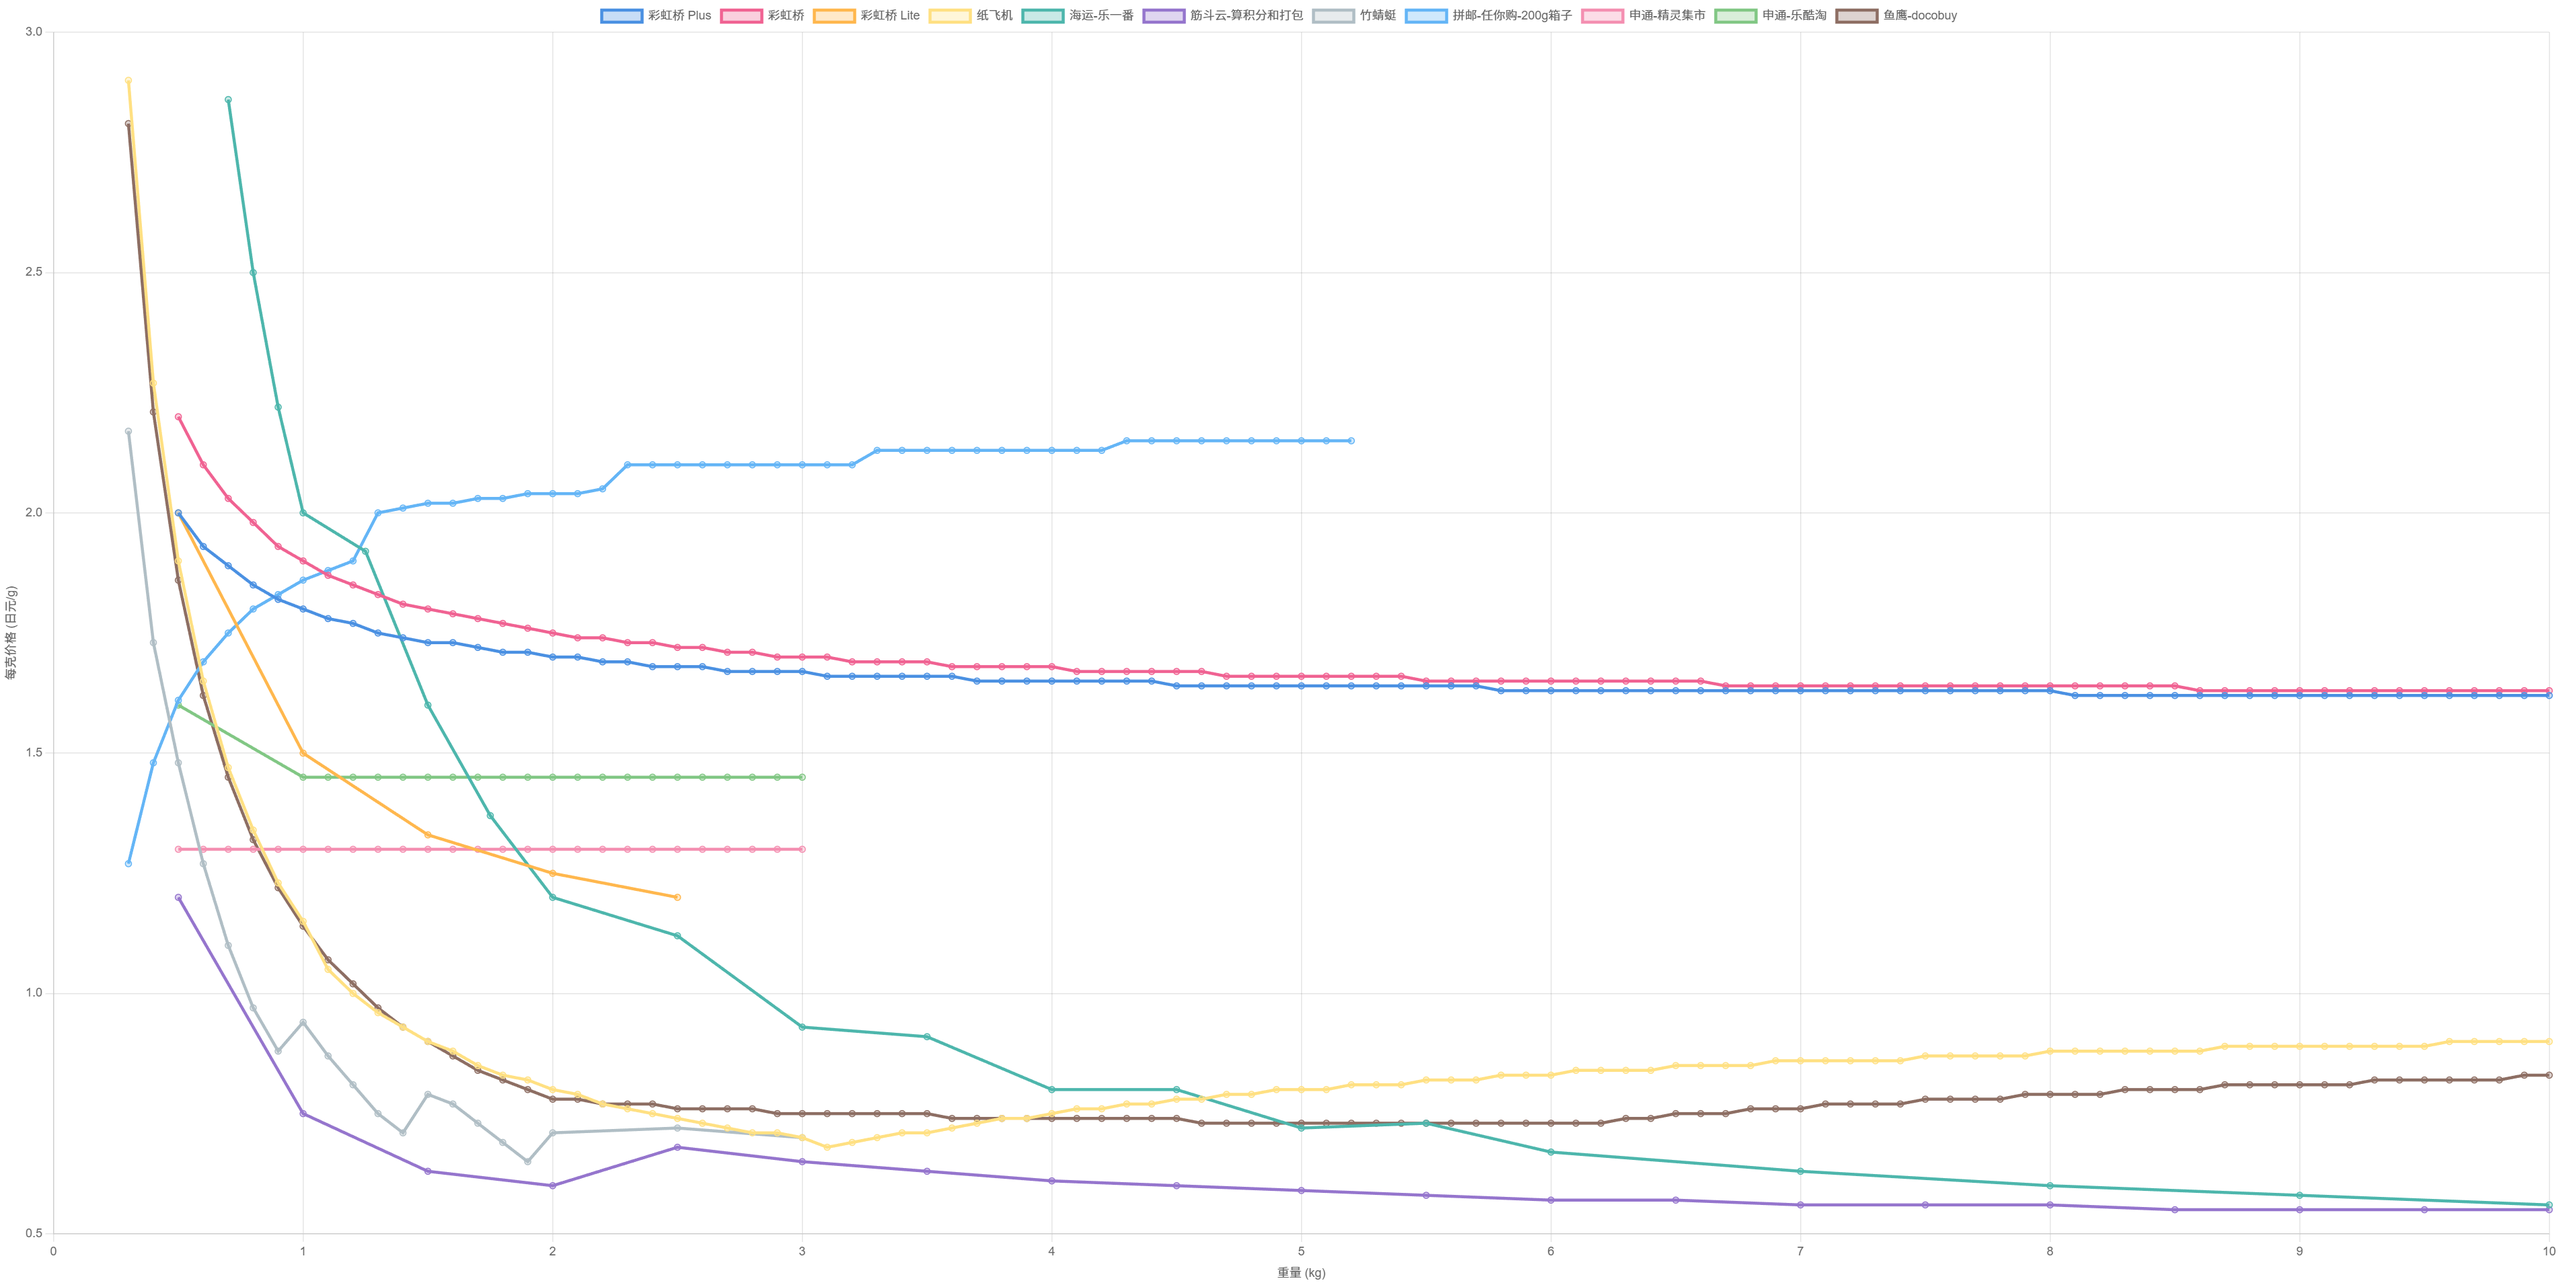
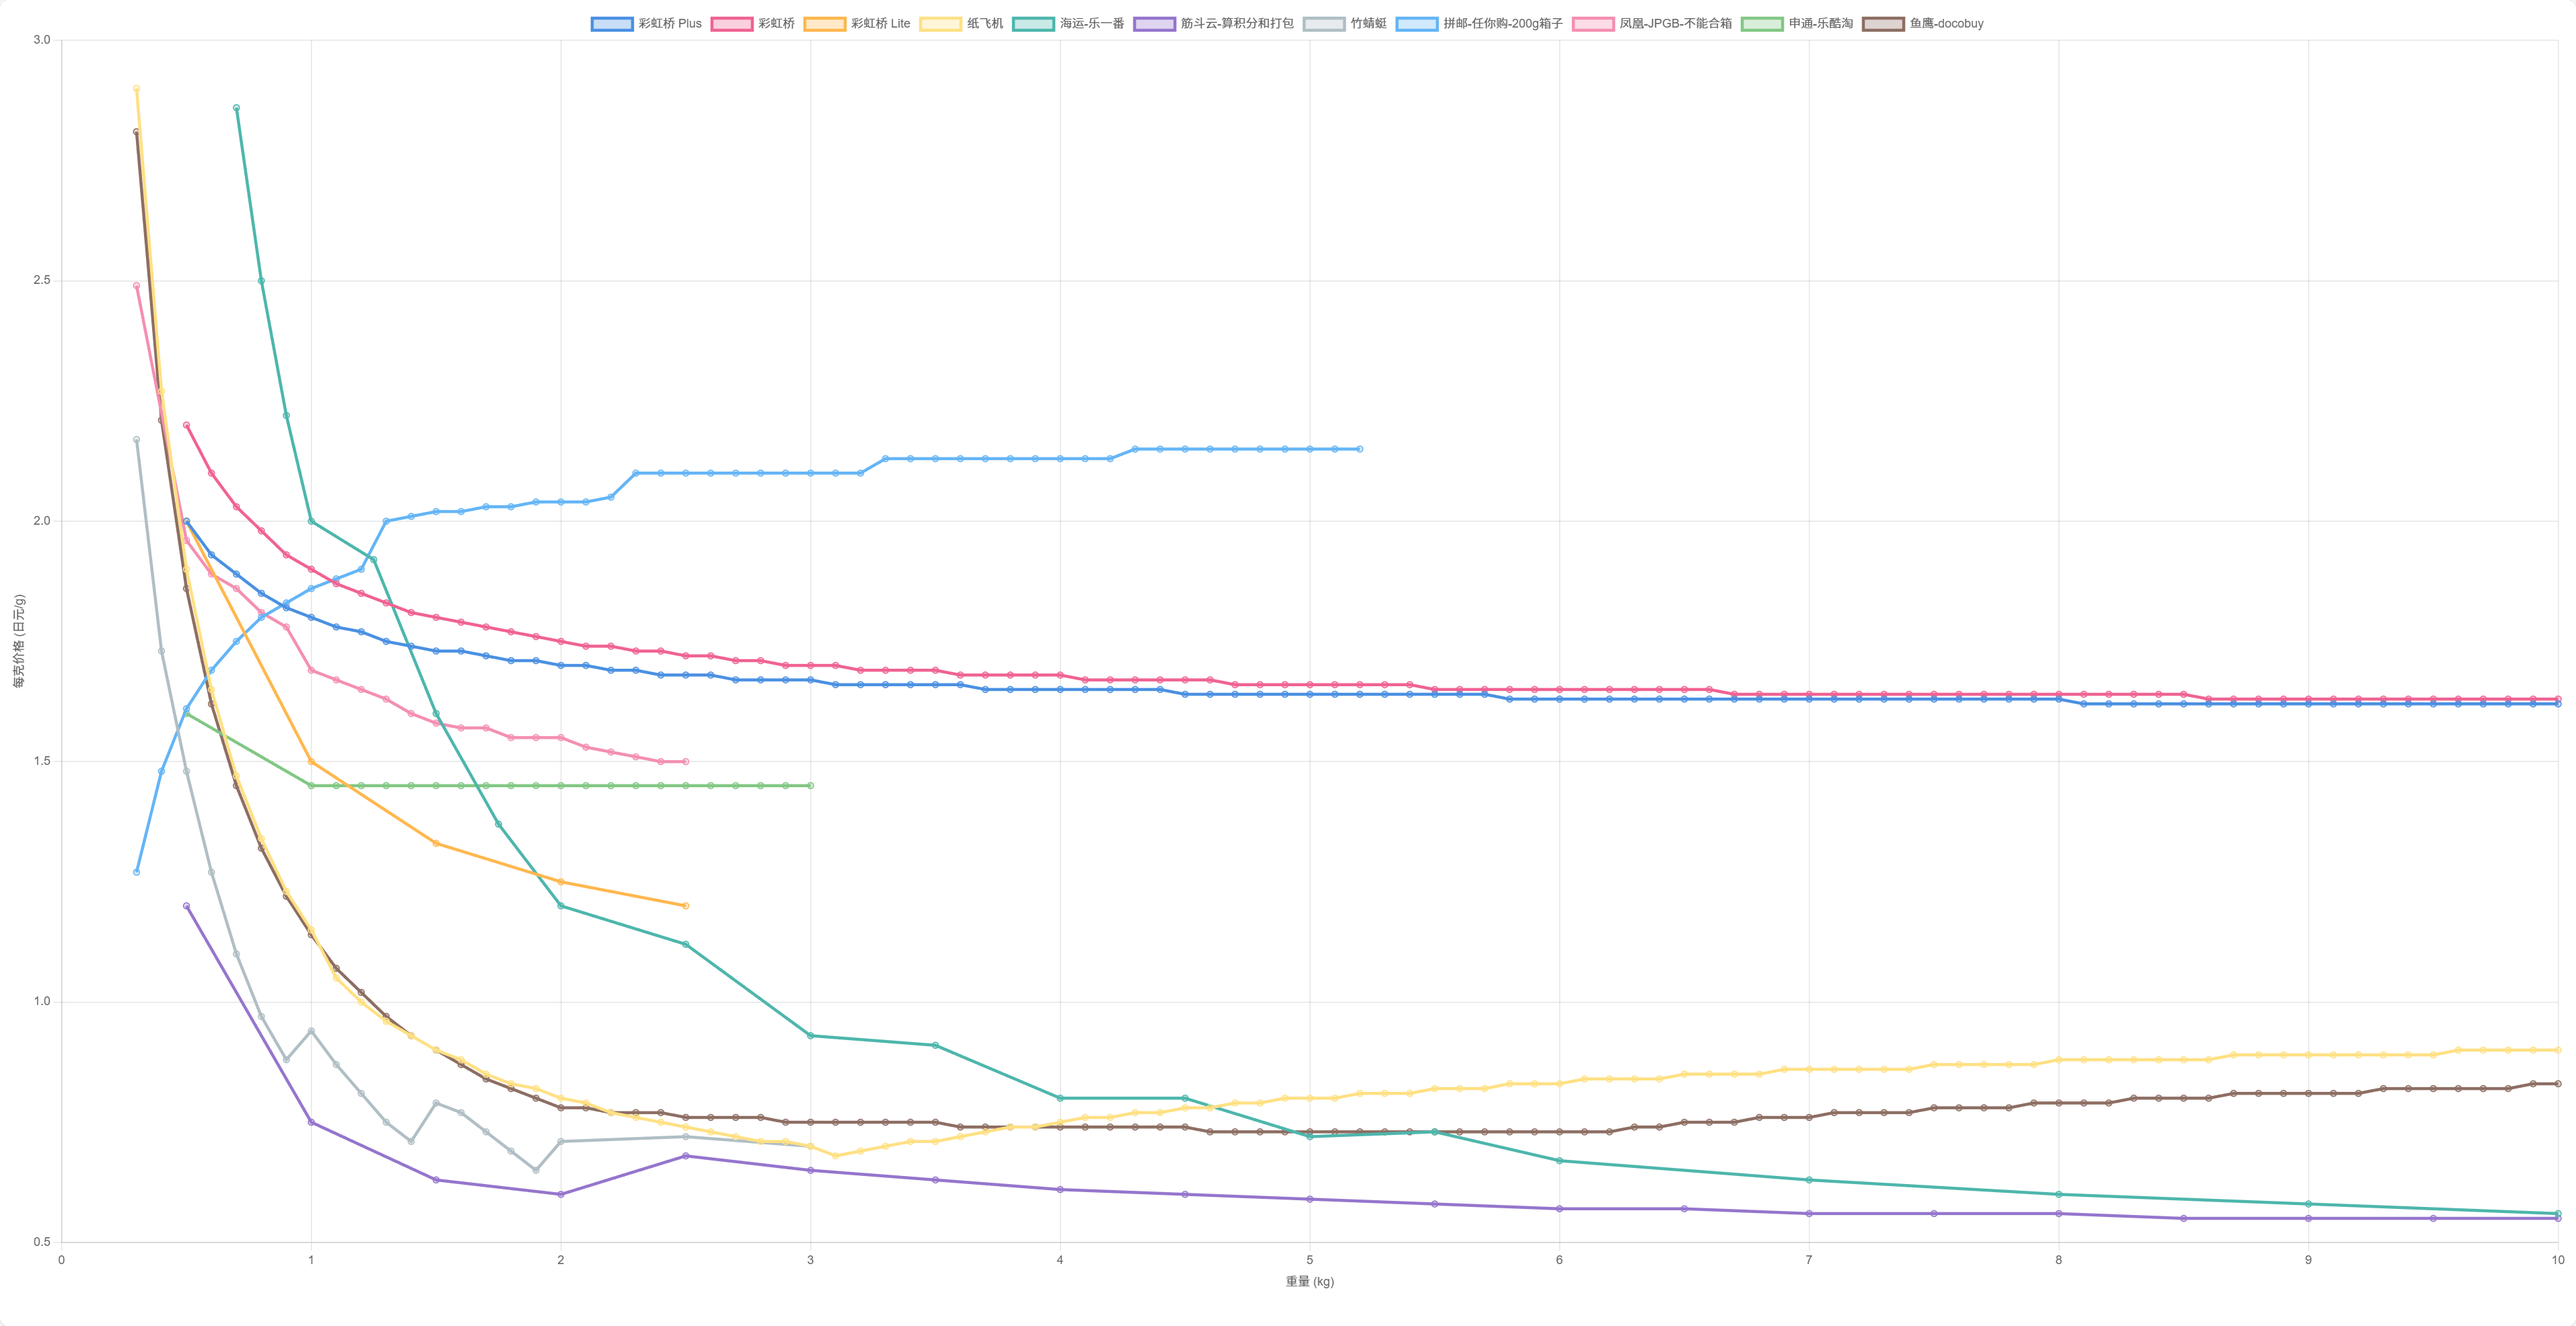
更新一下平台列表和介绍文档

diff --git a/index.js b/index.js
@@ -232,6 +232,41 @@ function lineDocobuyYuying() {
     return generateLineData(6.1, 10.0, 0.1, 560 + 42 * 19 + 70 * 40 + 98, 98, fixedFee, xy);
 }
 
+function lineJPGOODBUYPhoenix() {
+    const RMB_TO_JPY = 1 / 0.04686;
+
+    const phoenixData = [
+        { weight: 0.3, price: 35 },
+        { weight: 0.5, price: 46 },
+        { weight: 0.6, price: 53 },
+        { weight: 0.7, price: 61 },
+        { weight: 0.8, price: 68 },
+        { weight: 0.9, price: 75 },
+        { weight: 1.0, price: 79 },
+        { weight: 1.1, price: 86 },
+        { weight: 1.2, price: 93 },
+        { weight: 1.3, price: 99 },
+        { weight: 1.4, price: 105 },
+        { weight: 1.5, price: 111 },
+        { weight: 1.6, price: 118 },
+        { weight: 1.7, price: 125 },
+        { weight: 1.8, price: 131 },
+        { weight: 1.9, price: 138 },
+        { weight: 2.0, price: 145 },
+        { weight: 2.1, price: 151 },
+        { weight: 2.2, price: 157 },
+        { weight: 2.3, price: 163 },
+        { weight: 2.4, price: 169 },
+        { weight: 2.5, price: 176 },
+    ];
+
+    return phoenixData.map(item => ({
+        x: item.weight,
+        y: Number(((item.price * RMB_TO_JPY) / (item.weight * 1000)).toFixed(2))
+    }));
+}
+
+
 // 主函数：渲染所有线路
 // 注意 Y 值存在波动，波动上涨最大为 步长 / 前一个点的 x 值
 // 比如 筋斗云 1kg 0.75日元/g，假如恰好为 501g 的货物，则新每克价格 0.75*1000/500 = 1.5 日元/g，涨幅为 步长 500 / 前一个点的 x 500，即上涨 100% 一倍
@@ -254,6 +289,7 @@ function initAllLines(ctx) {
     const elfShentong = lineElfShentong();
     const rakutaoShentong = lineRakutaoShentong();
     const docobuyYuying = lineDocobuyYuying();
+    const jpgoodbuyPhoenix = lineJPGOODBUYPhoenix();
 
     new Chart(ctx, {
         type: 'line',
@@ -308,8 +344,8 @@ function initAllLines(ctx) {
                     backgroundColor: 'rgba(100,181,246,0.3)'
                 },
                 {
-                    label: '申通-精灵集市',
-                    data: elfShentong,
+                    label: '凤凰-JPGB-不能合箱',
+                    data: jpgoodbuyPhoenix,
                     borderColor: '#F48FB1',
                     backgroundColor: 'rgba(244,143,177,0.3)'
                 },

diff --git a/README.md b/README.md
@@ -1,17 +1,41 @@
-# JP–CN Shipping Chart
+[运费图表网页版](https://2-3-5-7.github.io/jp-cn-shipping-chart)
 
-A visual comparison of Japan-to-China shipping costs across multiple forwarding services.
 
-- 乐一番，彩虹桥、彩虹桥plus、彩虹桥lite、纸飞机、海运
-- 挖煤姬-竹蜻蜓
-- 日淘市集-筋斗云
-- 任你购-拼邮
-- 精灵集市-申通
-- 乐酷淘-申通
-- Docobuy-鱼鹰
 
-## Usage
-Download the code and open `index.html`.
+线路可分为两类，包税线和不包税线，这个维度就要基于货值来选线路，包税线的价格更贵
+
+- 多数 0.2 税率就是货值小于 250 (50 / 0.2)，纸片类是 0.13 小于 380，混合就要具体计算
+- 包税：彩虹桥XX、竹蜻蜓 plus、拼邮-任你购、申通-乐酷淘、鱼鹰-docobuy
+- 不包税：纸飞机、竹蜻蜓、筋斗云、邮政线路（ems、海运、空运）
+
+另一个维度是重量（有的有体积重），重量越大每克运费越便宜，所以可以多买点然后 🐟 卖掉抵扣运费，重量低运费就不划算，当然拼邮稍微好些
+
+两个维度就可以形成 4 种情况
+- 很少量，物品不算箱子净重 300g 以下，任你购拼邮
+- 便宜且轻，竹蜻蜓，物品类别不能走的话，纸飞机、筋斗云
+- 贵且轻，乐一番商品打折后走包税线。第二考虑，docobuy、乐酷淘，这些很少打折，但运费便宜的线
+- 便宜且重
+对于书籍光盘走乐一番纸飞机，还可以捎带些便宜且轻的周边。其它类别，考虑筋斗云（可能有异形件费用）
+3-5 kg 之间的书籍光盘，如果货物便宜，也可以考虑筋斗云（书籍线额外加收商品价值 5%）
+5 kg 以上物品海运，非书籍筋斗云也可以
+- 贵且重，走不包税 + 税 与 走包税线多花费的运费，两者进行比较选择
+
+- 运费不是全部。乐一番商品打折，签到积分，就相当于节省运费了，尤其对于贵的东西，打九折，就可以抵扣多收取的运费
+
+线路注意
+
+- 乐一番，纸飞机箱子费用至少 100 日元，彩虹桥plus（顺丰）有体积重
+- 日淘市集，加固费 200 日元，但同时 500 积分抵扣很容易做到（去🐟买）。
+500g 一档，重量低可能跳档不划算。
+手续费、合单费用、异形件费用，筋斗云没有书籍光盘免税额，而书籍光盘线额外加收商品价值 5% 费用。
+- 挖煤姬，手续费，竹蜻蜓物品有类别限制
+- 任你购，手续费，拼邮有物品类别限制。拼邮国际段不算箱子重，为了与其它线路比较，假设了 200g 箱子
+- 乐酷淘，箱子费用至少 100 日元
+- docobuy，最便宜的包税线，鱼鹰，2 万日元以内，商品小于 15 个，cd 不能和其它物品混发，这条线比较慢
+- jpgoodbuy，老平台，运费没看到优势。凤凰线只能一单，不能合箱。除乐一番以外的，即支持转运又支持代购的平台，但是邮政线也不让发 r 本
+- 精灵集市，新平台，政策很不稳定（一个月改好几次），客服体验差，各种营销，也运营转运“池袋顺丰”。客观说，申通运费比乐酷淘便宜，但我不推荐
+
+图 3 是煤炉合作平台列表，我个人感觉越靠前平台的运营时间越长，更可靠
 
 ![](01.png)
 
